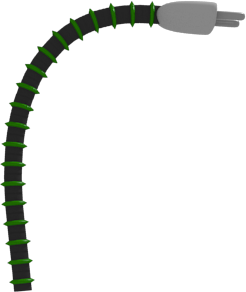
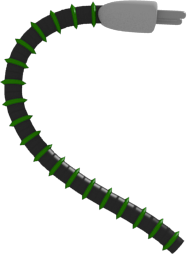
website
git-svn-id: http://javascool.googlecode.com/svn@187 17e3714e-118d-3e7a-01ef-bee73ecf6174

Changed region(s): [[0.0, 0.0, 1.0, 1.0]]

diff --git a/web/index.php b/web/index.php
@@ -33,6 +33,7 @@ include("includes/get_wiki_page.php");
                 addListeners();/*
                 showButtons();
                 plugContent();*/
+                animationrunning=true;
                 updateAnimation(1);
             }
             
@@ -65,6 +66,15 @@ include("includes/get_wiki_page.php");
                     middles[i].addEventListener("mouseover", mouseOverMenu, false);
                     middles[i].addEventListener("mouseout", mouseOutMenu, false);
                 }
+                window.addEventListener("resize", windowResized, false);
+            }
+            
+            function windowResized() {
+                if (animationrunning) return;
+                framePosition=getPos(document.getElementById("header"));
+                var w=getSize(document.getElementById("header")).width;
+                document.getElementById("plugright").style.left=(framePosition.left+w+316-document.getElementById("plugright").offsetWidth)-(animationend-30)*3+"px";
+                document.getElementById("plugleft").style.left=(framePosition.left-316)+(frame-30)*3+"px";
             }
             
             function mouseOverMenuSide(event) {
@@ -147,6 +157,9 @@ include("includes/get_wiki_page.php");
                 return output;
             }
             
+            var animationend=85;
+            var animationrunning=false;
+            
             function updateAnimation(increment) {
                 var plugleft=document.getElementById("plugleft");
                 var plugright=document.getElementById("plugright");
@@ -166,7 +179,7 @@ include("includes/get_wiki_page.php");
                     plugright.style.top=30;
                 }
                 
-                if (frame==60) {
+                if (frame==80) {
                     var lights=getElementsByClass("pluglight");
                     for (i=0; i<lights.length; i++) {
                         lights[i].src="images/ledgreen.png";
@@ -174,8 +187,10 @@ include("includes/get_wiki_page.php");
                 }
                 
                 frame+=increment;
-                if (frame<65)
-                    setTimeout("updateAnimation("+increment+")",5);
+                if (frame<animationend)
+                    setTimeout("updateAnimation("+increment+")",10);
+                else
+                    animationrunning=false;
             }
 
         </script>

diff --git a/web/pages/run/display.php b/web/pages/run/display.php
@@ -3,8 +3,8 @@
     <div class="label2">Linux</div>
 	Pour lancer Java's Cool sans installation, cliquez sur le lien ci-dessus. Si le lancement échoue, vous devrez probablement installer Java.
 	Sous linux, téléchargez le fichier .jar, puis suivez les instructions ci-dessous : 
-    <table><tr><td><img src="images/screen1.png" alt="screenshot"/></td><td>
+    <table><tr><td><img src="images/screen1.png" alt="screenshot" style="width: 300px; height: auto;"/></td><td>
                 <span class="label-arrow" /></td><td>
-                <img src="images/screen2.png" alt="screenshot"/></td></tr></table>
+                <img src="images/screen2.png" alt="screenshot" style="width: 300px; height: auto;"/></td></tr></table>
     <div class="label2">Windows</div>
 </div>
